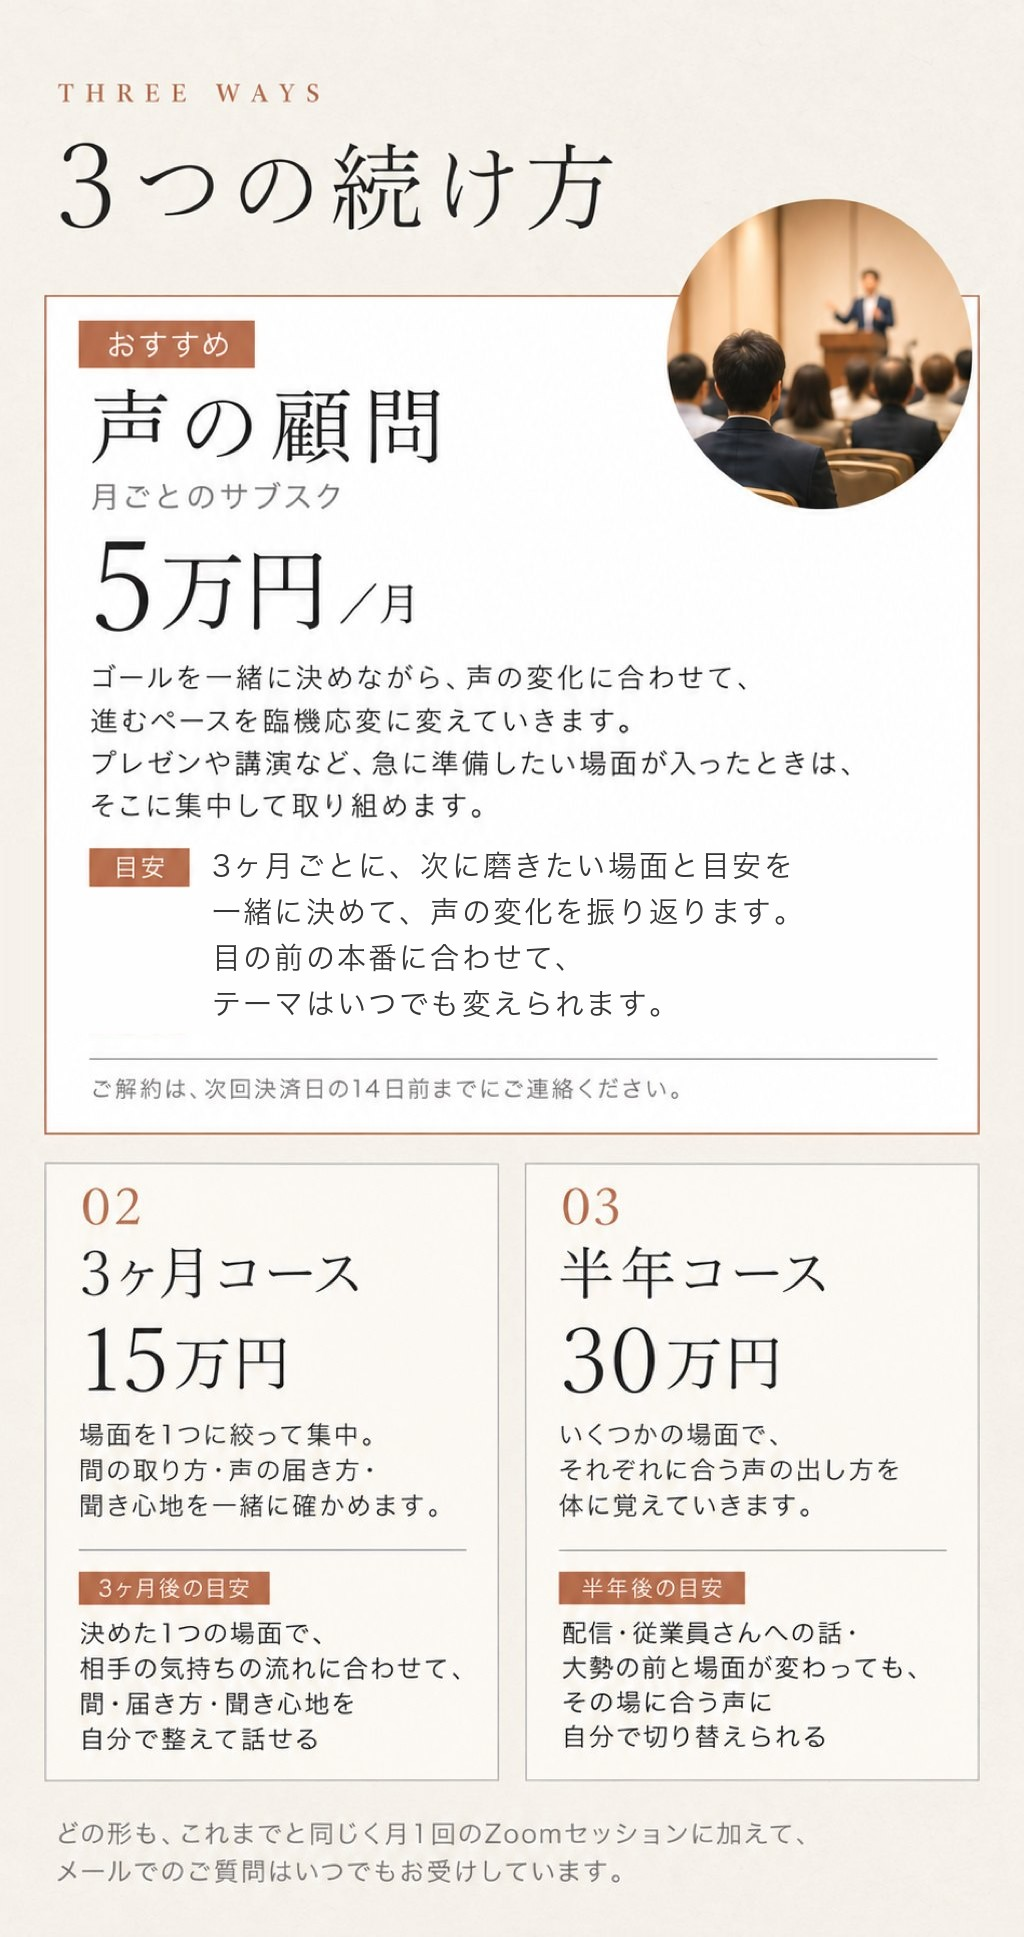
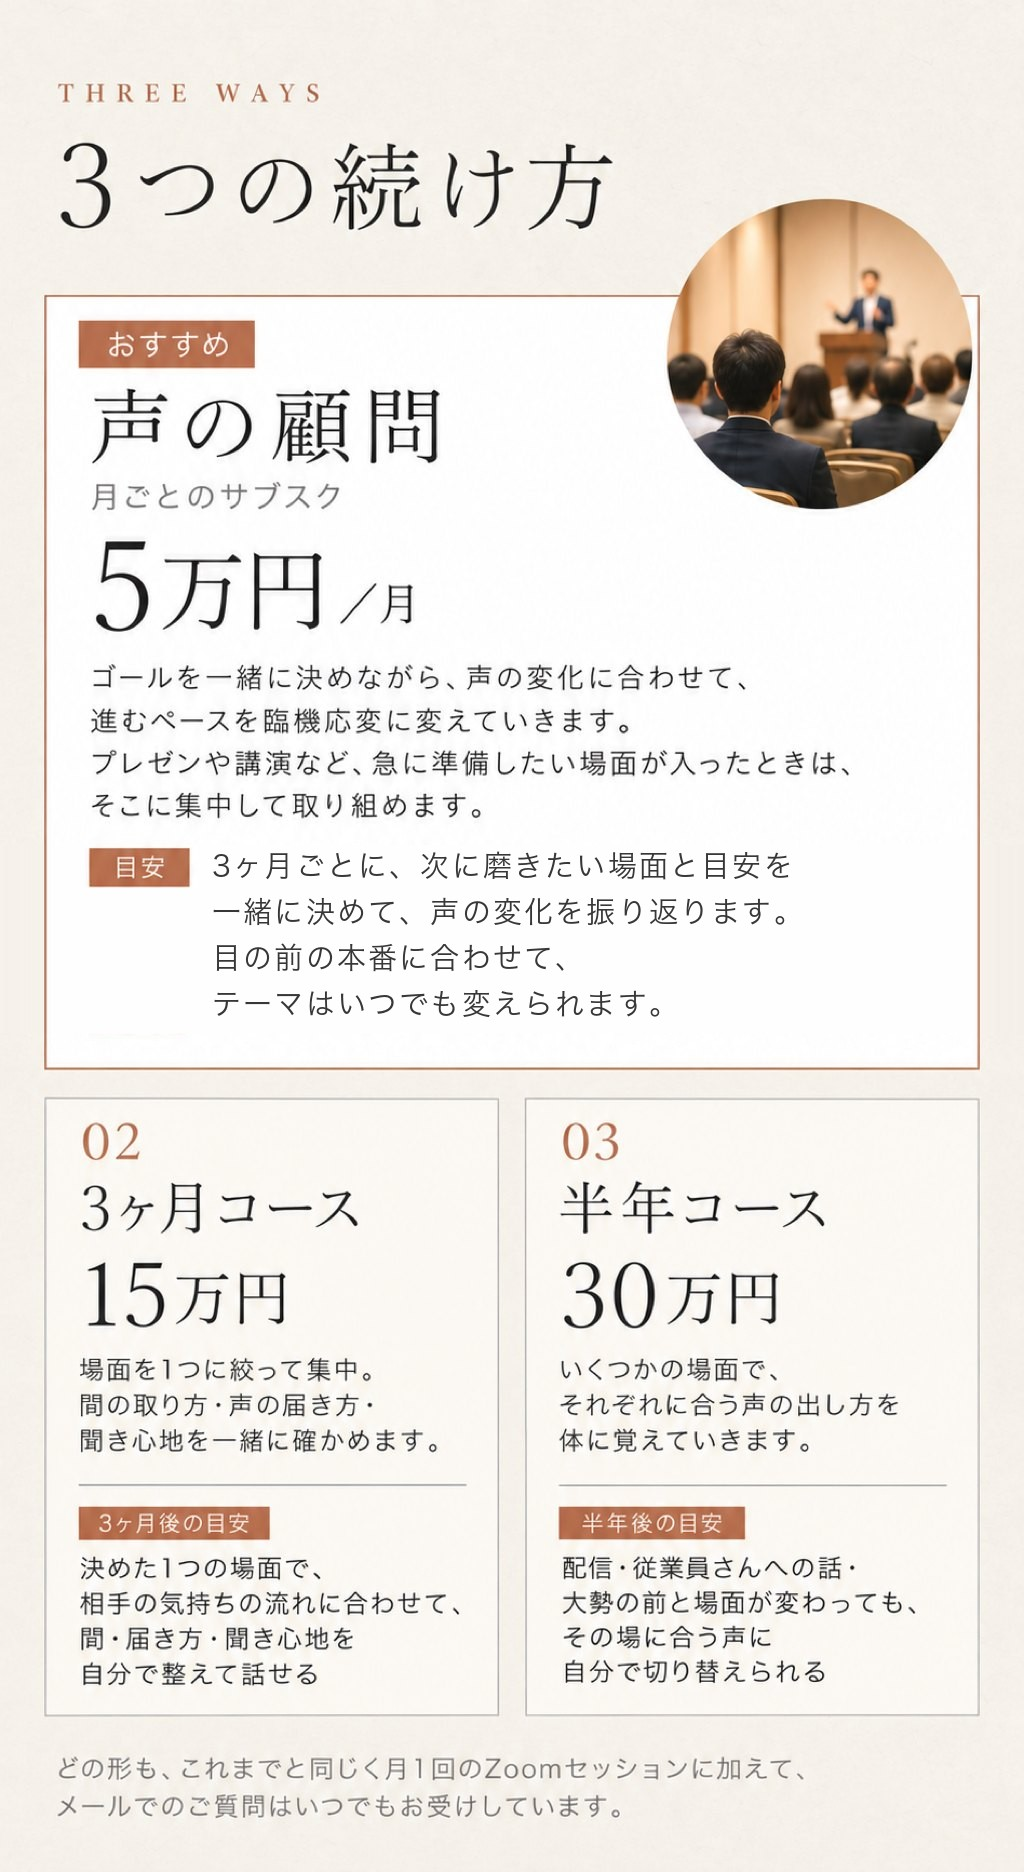
継続の提案ページ: 3つの続け方の解約の一文を外す（最後の1か所に）

diff --git a/p/voice-next-572ab027/index.html b/p/voice-next-572ab027/index.html
@@ -21,7 +21,7 @@
     <img src="images/02-now.jpg" width="1024" height="1792" loading="lazy" alt="この半年で、積み上げてきたこと。01 呼吸と声のつながり（声の基礎）。02 抑揚のつけ方と、相手への伝わり方。03 相手が受け取りやすい声の扱い方。次は、どの場面でも使いこなす段階へ。">
   </section>
   <section class="part" id="plans" aria-label="3つの続け方">
-    <img src="images/03-plans.jpg" width="1024" height="1937" loading="lazy" alt="3つの続け方。おすすめ：声の顧問（月ごとのサブスク）月5万円。ゴールを一緒に決めながら、声の変化に合わせて進むペースを臨機応変に変えていきます。プレゼンや講演など、急に準備したい場面が入ったときは、そこに集中して取り組めます。目安：3ヶ月ごとに、次に磨きたい場面と目安を一緒に決めて、声の変化を振り返ります。目の前の本番に合わせて、テーマはいつでも変えられます。02 3ヶ月コース 15万円。場面を1つに絞って集中。3ヶ月後の目安：決めた1つの場面で、相手の気持ちの流れに合わせて、間・届き方・聞き心地を自分で整えて話せる。03 半年コース 30万円。いくつかの場面で、それぞれに合う声の出し方を体に覚えていきます。半年後の目安：配信・従業員さんへの話・大勢の前と場面が変わっても、その場に合う声に自分で切り替えられる。どの形も、これまでと同じく月1回のZoomセッションに加えて、メールでのご質問はいつでもお受けしています。">
+    <img src="images/03-plans.jpg" width="1024" height="1872" loading="lazy" alt="3つの続け方。おすすめ：声の顧問（月ごとのサブスク）月5万円。ゴールを一緒に決めながら、声の変化に合わせて進むペースを臨機応変に変えていきます。プレゼンや講演など、急に準備したい場面が入ったときは、そこに集中して取り組めます。目安：3ヶ月ごとに、次に磨きたい場面と目安を一緒に決めて、声の変化を振り返ります。目の前の本番に合わせて、テーマはいつでも変えられます。02 3ヶ月コース 15万円。場面を1つに絞って集中。3ヶ月後の目安：決めた1つの場面で、相手の気持ちの流れに合わせて、間・届き方・聞き心地を自分で整えて話せる。03 半年コース 30万円。いくつかの場面で、それぞれに合う声の出し方を体に覚えていきます。半年後の目安：配信・従業員さんへの話・大勢の前と場面が変わっても、その場に合う声に自分で切り替えられる。どの形も、これまでと同じく月1回のZoomセッションに加えて、メールでのご質問はいつでもお受けしています。">
   </section>
   <section class="part" id="apply" aria-label="お申し込み">
     <img src="images/04-cta.jpg" width="1024" height="1600" loading="lazy" alt="ここから、次の一段へ。どの形も、これまでのレッスンの続きから始められます。">
